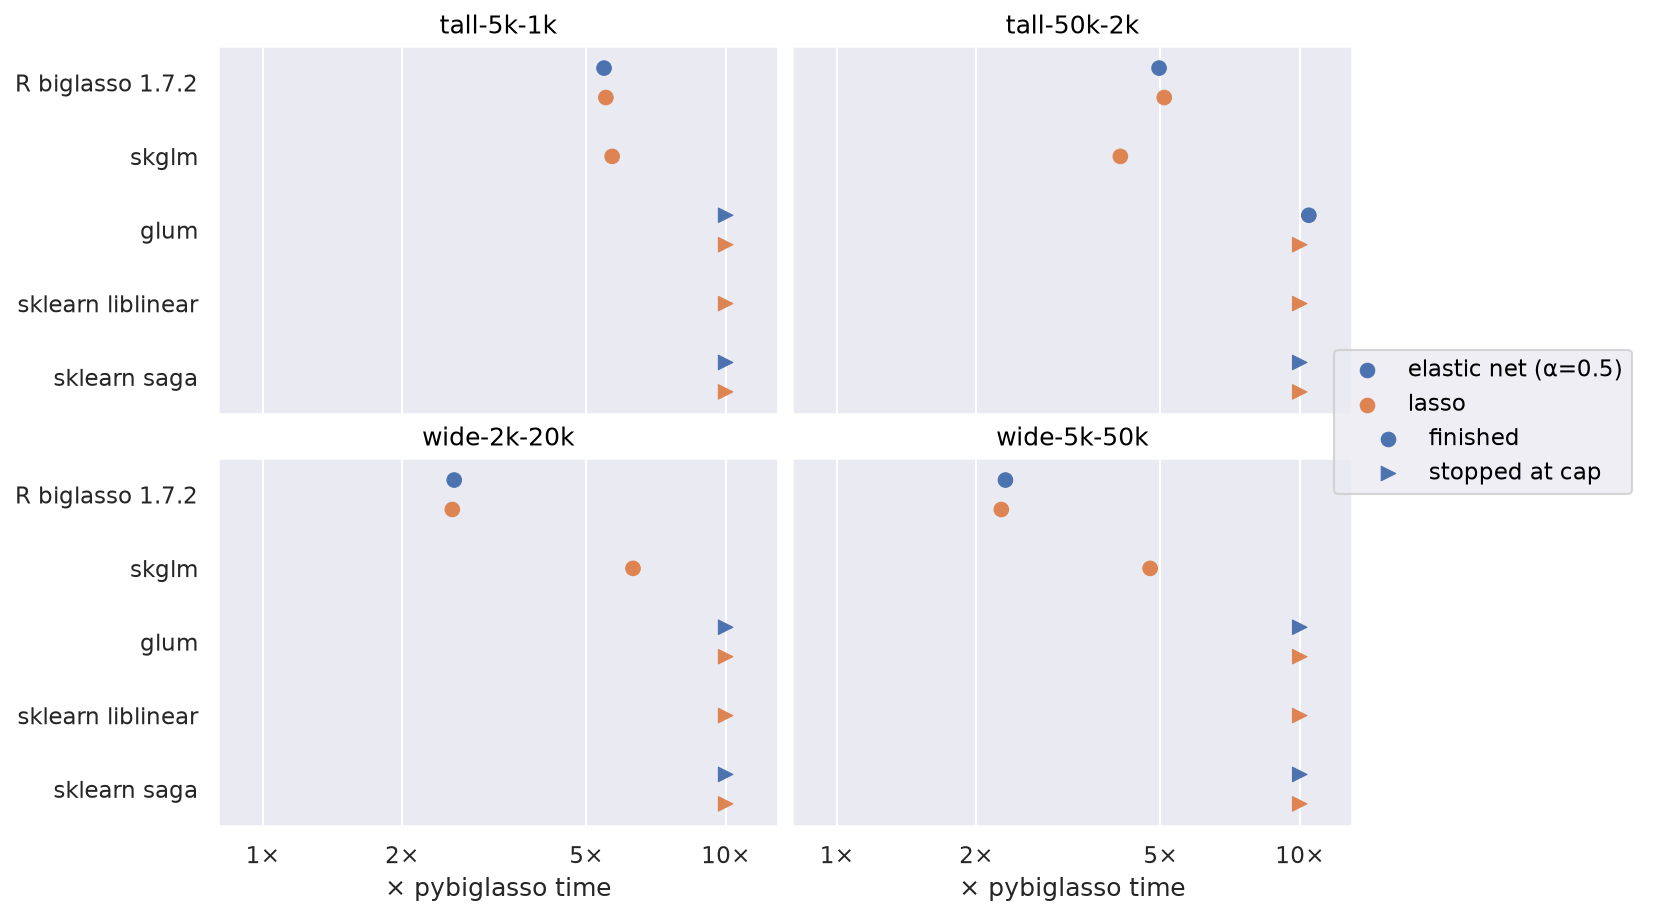
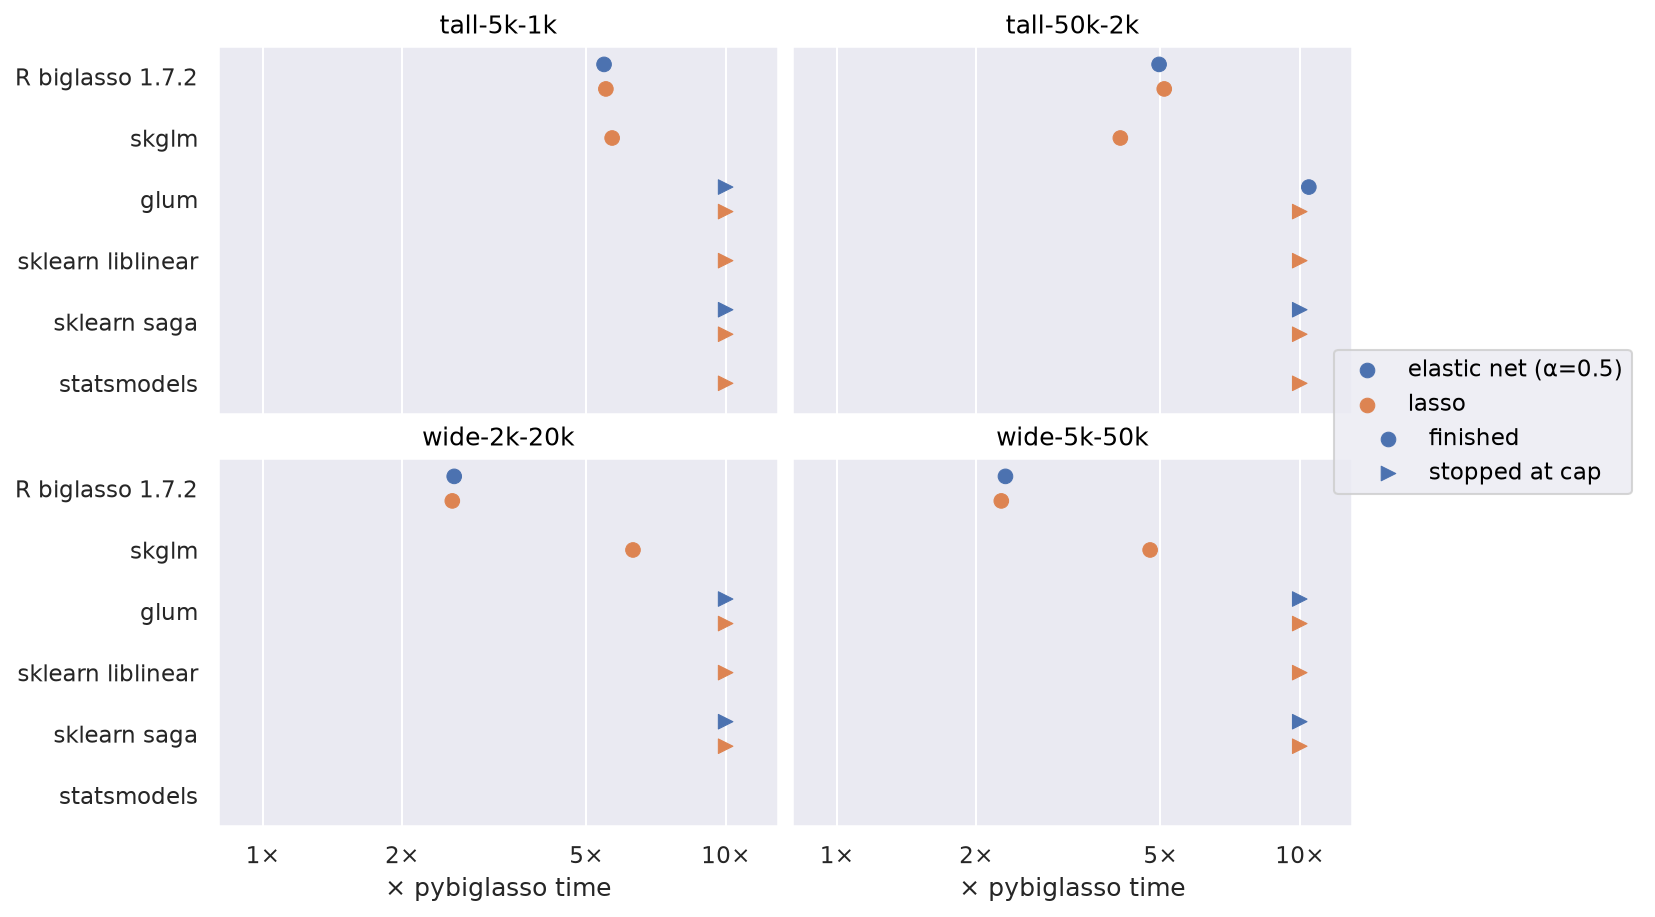
benchmarks: statsmodels results; in the plot
statsmodels' L1 path exceeds 10x pybiglasso on both tall datasets, and on
the smallest problem it doesn't finish in the 900 s limit (over 1,000x).
It isn't run on the wide datasets, where its dense SLSQP fit would need
~12 GB and ~76 GB. That run's pybiglasso rows were on a busy machine, so the
final rows take precedence in the plot.

Claude-Session: https://claude.ai/code/session_01TCwd1z2zTY1k1ojRNqSc73

diff --git a/benchmarks/plot.py b/benchmarks/plot.py
@@ -21,6 +21,7 @@ LABELS = {
     "glum": "glum",
     "sklearn-liblinear": "sklearn liblinear",
     "sklearn-saga": "sklearn saga",
+    "statsmodels": "statsmodels",
 }
 
 
